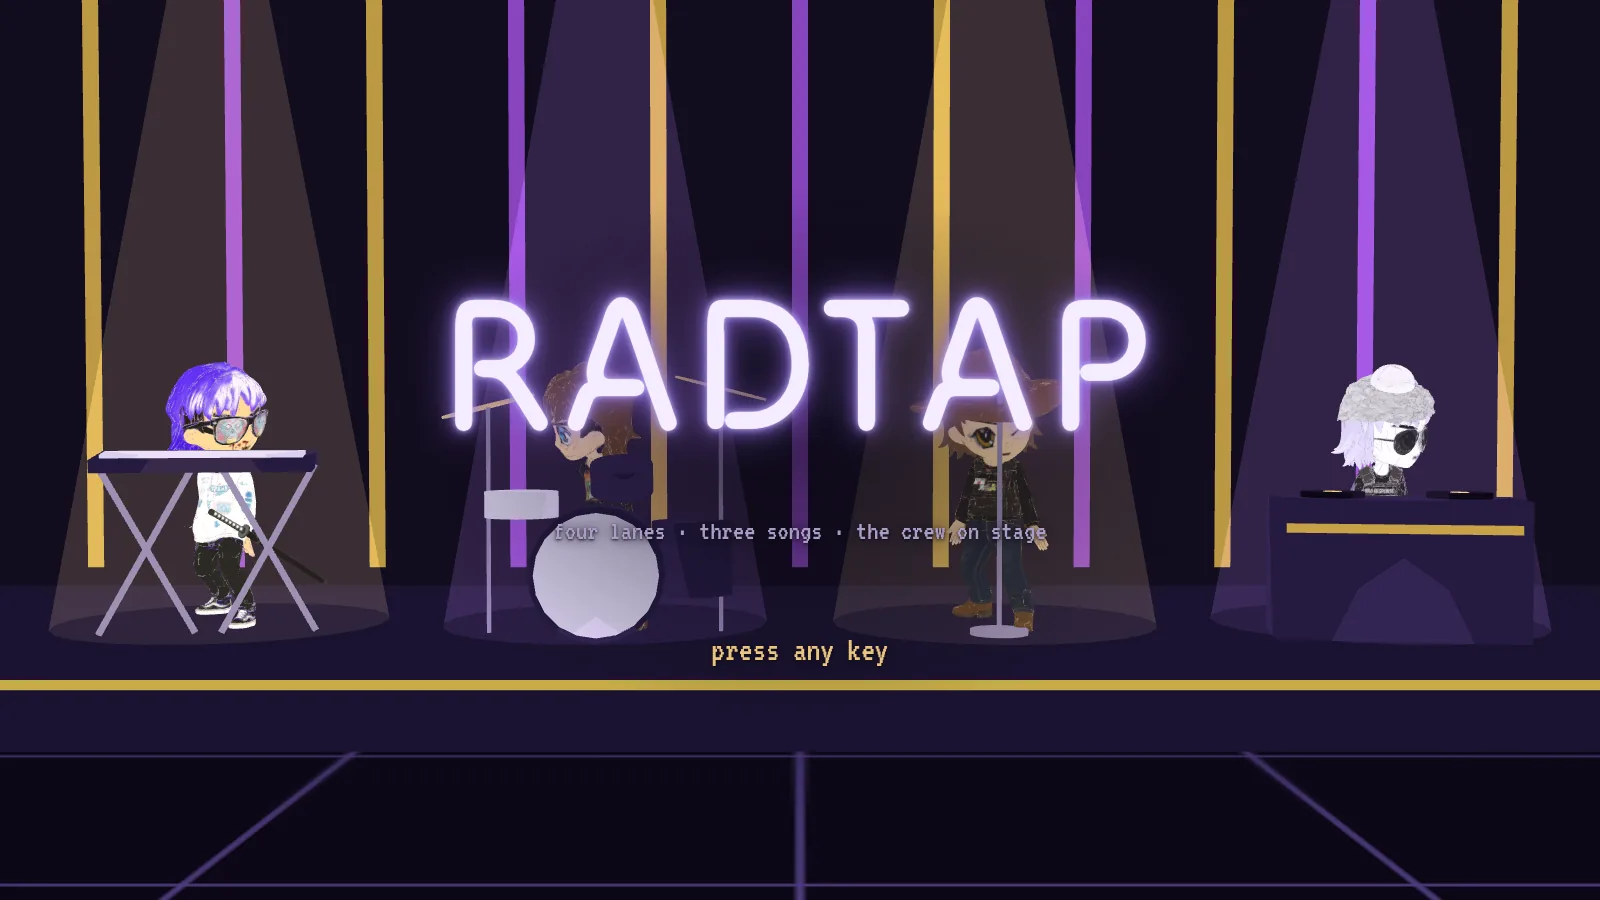
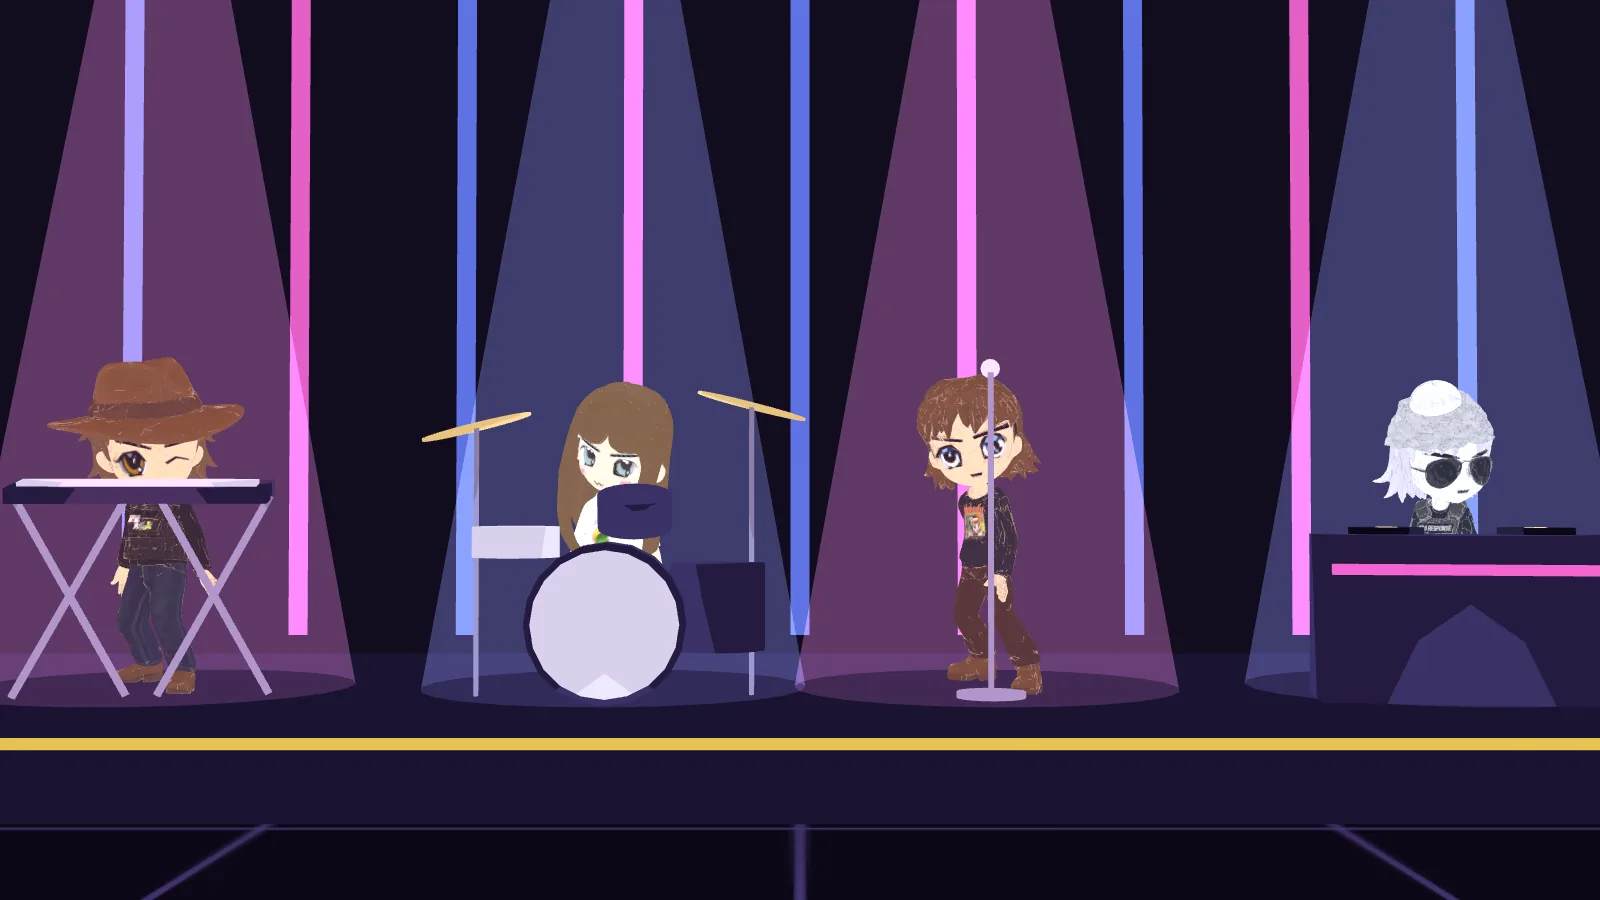
SHITBOX and RADTAP round two: odd jobs and a career, seven songs and seven lanes; new art from the games

diff --git a/src/projects.js b/src/projects.js
@@ -278,14 +278,14 @@ export const projects = [
   },
   {
     cmd: 'shitbox',
-    boot: 'a tired old four-door with a real manual', // the hero's boot log line
+    boot: 'odd jobs in a tired old four-door', // the hero's boot log line
     aliases: ['beater', 'car'],
     slug: 'shitbox',
     group: 'games',
     name: 'SHITBOX',
-    kind: 'Driving game, a tired old four-door with a real manual',
+    kind: 'Odd jobs in a tired old four-door with a real manual',
     blurb:
-      'A 1991 four-door with 231,472 miles on it, faded red paint and a five-speed manual. Work the clutch, stall it, bump-start it, grind a gear, and feel the cams change over at 5,500. A small town at dusk, a supermarket lot and a hill road up to the lookout. An early build: odd jobs and keeping it running come next. Keyboard, controller or touch.',
+      "A 1991 four-door with 231,472 miles, a real manual and $25. Your phone fills up with odd jobs: lifts for people who are online too much, a couch on the roof, a cold wallet that can't take a bump, the airport before the flight. The clutch is going. The junkyard has one. Fix it, or don't. Keyboard, controller or touch.",
     url: 'https://shitbox.vyvanse.beer',
     frame: true,
     links: [{ label: 'Play', href: 'https://shitbox.vyvanse.beer' }],
@@ -296,31 +296,31 @@ export const projects = [
       src: '/img/art/shitbox.webp',
       width: 1600,
       height: 900,
-      alt: 'SHITBOX: a faded red early-90s four-door with a grey primer fender, headlights on, parked at a gas station at dusk with lit shop signs behind.',
+      alt: 'SHITBOX: a faded red early-90s four-door with its headlights on at night, pulling off the ring road past the pines.',
     },
   },
   {
     cmd: 'radtap',
-    boot: 'four lanes, the crew on stage', // the hero's boot log line
+    boot: 'four lanes or seven, the crew on stage', // the hero's boot log line
     aliases: ['rhythm'],
     slug: 'radtap',
     group: 'games',
     name: 'RADTAP',
-    kind: 'Four-lane rhythm game',
+    kind: 'Rhythm game, four lanes or seven',
     blurb:
-      'Four lanes, three original songs and the Radbros playing them on stage behind the notes. Taps and holds from Easy to Hard, timing judged against the sound itself, calibration for your screen and speakers, and a chart editor for new songs. Keyboard, controller or touch.',
+      'Notes fall, you hit them on the line, and the crew plays behind the lanes. Seven original songs, from lo-fi and jungle to guitar rock and an 8-bit level theme, Easy to Expert, in four lanes or seven. Mods, practice loops for the hard parts, bests and a few achievements. Keyboard, controller or touch.',
     url: 'https://radtap.vyvanse.beer',
     frame: true,
     links: [{ label: 'Play', href: 'https://radtap.vyvanse.beer' }],
     thumb: '/img/thumb/radtap.webp',
     shell: '#23163f',
     accent: '#b98cff',
-    cast: RADBROS,
+    cast: ALL,
     image: {
       src: '/img/art/radtap.webp',
       width: 1600,
       height: 900,
-      alt: 'RADTAP: Radbros #4764, #652, #723 and #2564 on a neon stage on keys, drums, decks and the mic, under a glowing RADTAP sign.',
+      alt: 'RADTAP: the crew on a neon stage under coloured spotlights: #723 in his cowboy hat on keys, a Retardio on drums, a Radbro at the mic and #2564 on the decks.',
     },
   },
   {
